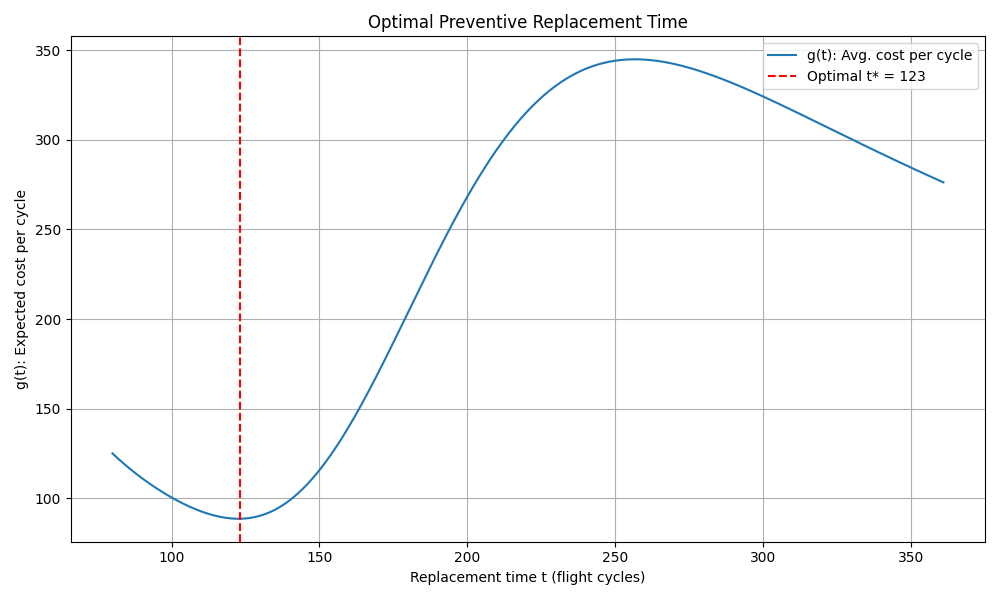
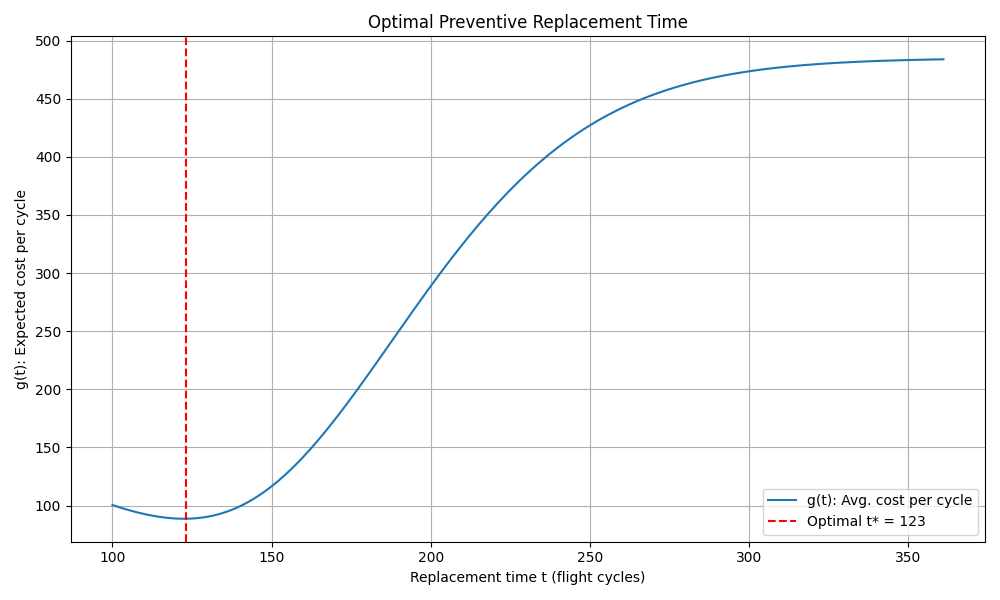
final plots die in het report staan voor deel 1

diff --git a/main.py b/main.py
@@ -3,16 +3,11 @@ import numpy as np
 import pandas as pd
 from reliability.Fitters import Fit_Weibull_2P, Fit_Exponential_1P, Fit_Lognormal_2P, Fit_Normal_2P
 from reliability.Distributions import Weibull_Distribution, Exponential_Distribution, Lognormal_Distribution, Normal_Distribution
-from import_data import df_test, df_train, operational_condition_names, sensor_names
-from numpy import trapz
+from import_data import df_train
 
-################################
 
-# Part 1: Preventive Maintenance
-
-################################
-
-#Extract lifetimes and get fitters
+#lifetimes uit de training data halen
+# distributions fitten op de lifetimes
 
 lifetimes = df_train.groupby("engine")["cycle"].max().values
 
@@ -23,7 +18,7 @@ fitters = {
     "Normal_2P": Fit_Normal_2P(failures=lifetimes, show_probability_plot=False),
 }
 
-# Plotting the fitted distributions
+# histogram plotten met de fitted distributions
 x = np.linspace(min(lifetimes), max(lifetimes), 1000)
 
 for name, fit in fitters.items():
@@ -53,8 +48,9 @@ plt.savefig("pdf_fit_comparison.png")
 plt.close()
 
 
-# Determine the best distribution
-# check both AIC and BIC values
+# AIC en BIC vergelijken 
+# dit was eigenlijk al gedaan in de fitters, daar hebben we ook de log-likelidhood en AD tests
+#maarja nu krijgen we ook de bic en aic allemaal in een keer
 best_fit_name = None
 best_fit_aic = float("inf")
 best_fit = None
@@ -69,14 +65,9 @@ for name, fitter in fitters.items():
         best_fit_name = name
         best_fit = fitter
 
-print("\nBest distribution based on AIC:")
-print(best_fit_name)
-for attr in dir(best_fit):
-    if not attr.startswith("_") and isinstance(getattr(best_fit, attr), (int, float)):
-        print(f"  {attr} = {getattr(best_fit, attr)}")
+print(f"\nBest distribution based on AIC:{ best_fit_name}")
 
-
-print("\n Comparison based on BIC values:")
+print("\n Comparison of BIC values:")
 best_fit_bic_name = None
 best_fit_bic_value = float("inf")
 for name, fitter in fitters.items():
@@ -88,7 +79,7 @@ for name, fitter in fitters.items():
 
 print(f"\nBest distribution based on BIC: {best_fit_bic_name}")
 
-# Hazard Function Calculation
+# Hazard Function berekenen voor de beste fit
 if best_fit_name == "Weibull_2P":
     best_dist = Weibull_Distribution(alpha=best_fit.alpha, beta=best_fit.beta)
 elif best_fit_name == "Exponential_1P":
@@ -98,11 +89,12 @@ elif best_fit_name == "Lognormal_2P":
 elif best_fit_name == "Normal_2P":
     best_dist = Normal_Distribution(mu=best_fit.mu, sigma=best_fit.sigma)
 
-
+# hazard functie iets eerder berekenen dan bij de histogram
+x = np.linspace(100, max(lifetimes), 1000)
 pdf_vals = best_dist.PDF(x)
-sf_vals = best_dist.SF(x)
+sf_vals = best_dist.SF(x) # SF = 1-F(x)
 hazard_vals =  pdf_vals / sf_vals
-
+# en plotten hazard functie
 plt.figure(figsize=(10, 6))
 plt.plot(x, hazard_vals, label=f"{best_fit_name} Hazard")
 plt.title(f"Hazard Function of {best_fit_name}")
@@ -116,31 +108,30 @@ plt.savefig("hazard_function.png")
 plt.close()
 
 
-# Cost Analysis for Preventive Maintenance
+# Average Cost per Cycle berekenen
 Cp = 10000 # cost prevent
 Cf = 100000 # cost fail
 t_range =  np.arange(100, max(lifetimes), 1)
 S_t = best_dist.SF(t_range)
-from numpy import trapz, linspace, array
-
 g_t_list = []
-t_range = np.arange(100, max(lifetimes), 1)
 
-
+#gt berekenen voor elke t
 for i, t in enumerate(t_range):
-    u_vals = linspace(0, t, 500)
+    u_vals = np.linspace(0, t, 500)
     s_vals = best_dist.SF(u_vals, show_plot=False)
-    e_time = trapz(s_vals, u_vals)
+    e_time = np.trapezoid(s_vals, u_vals)
 
     SF_t = S_t[i]
     g = (Cp * SF_t + Cf * (1 - SF_t)) / e_time
     g_t_list.append(g)
 
+# minimum g(t) vinden
 min_index = np.argmin(g_t_list)
 t_star = t_range[min_index]
 g_star = g_t_list[min_index]
-print(f"Optimal replacement time t* = {t_star} with minimum cost g(t*) = {g_star}")
+print(f"Optimal replacement time t*= {t_star} with minimum cost g(t*) = {g_star}")
 
+#plotten van g(t) en t*
 plt.figure(figsize=(10, 6))
 plt.plot(t_range, g_t_list, label='g(t): Avg. cost per cycle')
 plt.axvline(t_star, color='r', linestyle='--', label=f'Optimal t* = {t_star}')
@@ -153,3 +144,12 @@ plt.tight_layout()
 #plt.show()
 plt.savefig("g_of_t_cost_curve.png")
 plt.close()
+
+
+print("Nog wat dubbel checks van dingen")
+print(np.mean(lifetimes))
+print(np.exp(best_fit.mu)) #mean van distribution in de buurt van lifetimes mean
+print(f"cost average between 0 to t* ={g_star*t_star}")
+print(S_t[t_star-100])
+print(S_t[t_star-100]*10000 + (1 - S_t[t_star-100]) * 100000)  
+# kosten average lijken te kloppen met de g(t) kosten
